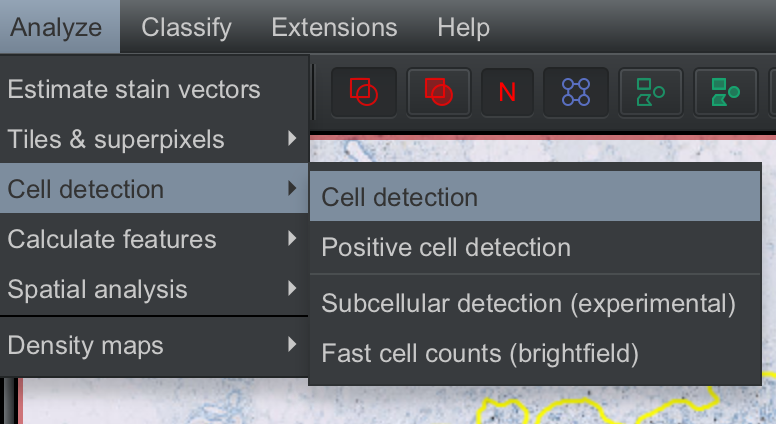
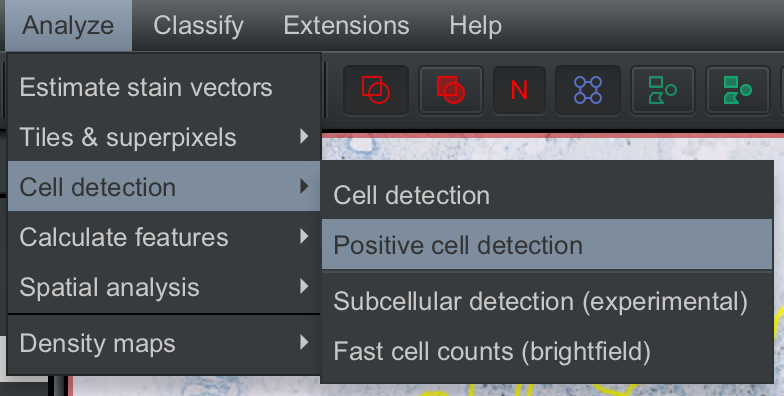
updated tutorial

diff --git a/docs/QuPath_demo/QuPath_demo.md b/docs/QuPath_demo/QuPath_demo.md
@@ -87,8 +87,8 @@ QuPath provides powerful tools for **annotation, visualization, and image analys
  - [2.2.2 Annotate regions of interest](#222-annotate-the-region-of-interest)
  - [2.2.3 Perform cell detection](#223-perform-cell-detection)
  - [2.2.4 Annotate areas within the region of interest](#224-annotate-areas-within-the-region-of-interest)
- - [2.2.5 Create and run object classifier](#225-create-and-run-object-classifier)
- - [2.2.6 Perform positive cell detection](#226-perform-positive-cell-detection)
+ - [2.2.5 Perform positive cell detection](#225-perform-positive-cell-detection)
+ - [2.2.6 Create and run object classifier](#226-create-and-run-object-classifier)
  - [2.2.7 Visualize data on the image](#227-visualize-data-on-the-image)
  - [2.2.8 View and export detection measurements](#228-view-and-export-detection-measurements)
 
@@ -463,12 +463,12 @@ Next, using the wand tool (or any annotation tool of your preference), let us an
 <img src="TutorialImages/annotation_ROI_1.png" width="550" height="300" style="margin-left: 40px;">
 
 
-### 2.2.3 Perform cell detection
+### 2.2.3 Perform positive cell detection
 -------------------------------------
-We will now detect all the cells in `ROI` to perform measurements on these cells, and also to later classify these cells as positive or negative for the nuclear marker.
+We will now detect the cells in `ROI` to perform measurements on these cells, and also to classify these cells as positive or negative for the nuclear marker.
 
 1. Select the annotation `ROI`; the color of the outline will change to yellow.
-2. Click on `Analyze --> Cell detection --> Cell detection`
+2. Click on `Analyze --> Cell detection --> Positive cell detection`
 
 <img src="TutorialImages/cell_detection_1.png" width="300" height="200" style="margin-left: 40px;">
 
@@ -524,20 +524,21 @@ To achieve that, we will perform the following steps:
 
 
 7. Now, we need to let QuPath know that `region_1` and `region_2` belong to our first annotation `ROI`. This is called inserting objects into a hierarchy, where annotation objetc `ROI` will be the root or parent, and annotation objects `region_1` and `region_2` will be the children.
-To do this, select the thumbnails for `region_1` and `region_2` in the analysis pane (shift + down arrow keys), and then `Insert in hierarchy`
+To do this, select the thumbnails for `region_1` and `region_2` in the analysis pane (shift + down arrow keys), and then `Insert in hierarchy`.
 
 <img src="TutorialImages/object_hierarchy_1.png" width="350" height="300" style="margin-left: 40px;">
 
-<img src="TutorialImages/object_hierarchy_2.png" width="350" height="300" style="margin-left: 40px;">
+The analysis pane will now show the number of detections that are present in `region_1` and `region_2`.
+
+<img src="TutorialImages/object_hierarchy_2.png" width="350" height="100" style="margin-left: 40px;">
 
 
-8. Lock the annotations `region_1` and `region_2`
+8. Lock the annotations `region_1` and `region_2`.
 
 
 
 
-
-### 2.2.5 Create and run object classifier
+### 2.2.6 Create and run object classifier
 -------------------------------------
 We can next assign the positive cells that were detected to specific areas in the tissue, e.g. tumor or stroma. This can help us compare the counts or other characteristics of the positive cells in the tumoral or the stromal regions.
 For this, we first annotate some regions within our region of interest as 'tumor' or 'stroma', and train the classifier `Classify --> Object classification --> Train object classifier`
@@ -546,22 +547,6 @@ For this, we first annotate some regions within our region of interest as 'tumor
 We will now get the measurement of the positive cells stratified into the classes (tumor/stroma) that we set.
 <img src="TutorialImages/classification_2.jpg">
 
-
-### 2.2.6 Perform positive cell detection
--------------------------------------
-
-We will click on `Analyze --> Cell detection --> Positive Cell detection`. 
-
-<img src="TutorialImages/cell_detection_1.jpg">
-
-This opens up a window where we can set the parameters that will allow for accurate cell detection. Once the appropriate parameters are set, we can hit `Run`, and the cells will be detected.
-<img src="TutorialImages/cell_detection_2.jpg">
-
-The Annotations pane will show the count of all cells, positive cells and negative cells that were detected.
-<img src="TutorialImages/cell_detection_3.jpg">
-
-We can also visualize the detections as a heatmap overlaid on the image by clicking `Measure --> Show measurement maps`
-<img src="TutorialImages/cell_detection_4.jpg">
 
 
 
